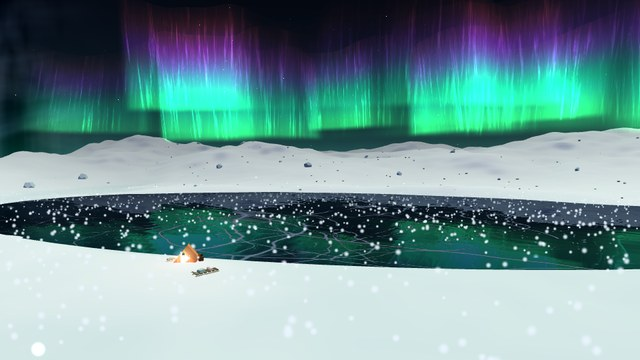
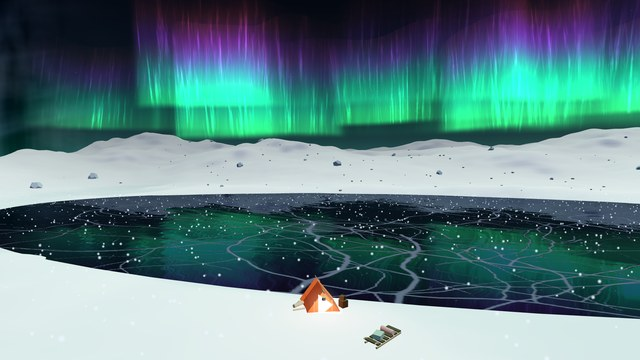
Standalone 3D gallery page, section URLs, gallery opening views
- 3d_gallery/: full-page version of the 3D gallery, linked from the Appendix
- One short URL per section that redirects to it
- 3D gallery: black hole first; bamboo and aurora open on new views, thumbnails match
- Left progress bar hides beside the 3D gallery

Claude-Session: https://claude.ai/code/session_01LLCmu6ixUJSwnJsrLbojYd

diff --git a/index.html b/index.html
@@ -649,9 +649,9 @@ Rating Rules: Rate each painting on a 1&ndash;20 scale for the criterion (1 = po
       </figure>
       <h3 id="3d-gallery">3D Gallery</h3>
       <figure class="g3d" id="fig-3d-gallery">
-        <div class="sv-scene"><iframe data-src="scenes/gallery-bamboo-forest.html?v=3" title="Interactive 3D scene: a misty bamboo forest swaying in the wind, with shafts of light on a stone path." tabindex="-1" scrolling="no"></iframe></div>
-        <div class="g3d-thumbs" role="group" aria-label="Choose a 3D scene"><button type="button" data-scene="scenes/gallery-bamboo-forest.html?v=3" data-title="Misty Bamboo Forest" data-desc="Interactive 3D scene: a misty bamboo forest swaying in the wind, with shafts of light on a stone path." aria-pressed="true"><img src="demos/gallery-bamboo-forest.jpg?v=3" alt="" width="640" height="360" loading="lazy"><span>Misty Bamboo Forest</span></button><button type="button" data-scene="scenes/gallery-black-hole.html?v=4" data-title="Black Hole Lensing" data-desc="Interactive 3D scene: a black hole with an accretion disk, bent by gravitational lensing." aria-pressed="false"><img src="demos/gallery-black-hole.jpg?v=2" alt="" width="640" height="360" loading="lazy"><span>Black Hole Lensing</span></button><button type="button" data-scene="scenes/gallery-city-traffic.html?v=2" data-title="City Traffic at Night" data-desc="Interactive 3D scene: a city at night with traffic moving between lit towers." aria-pressed="false"><img src="demos/gallery-city-traffic.jpg?v=2" alt="" width="640" height="360" loading="lazy"><span>City Traffic at Night</span></button><button type="button" data-scene="scenes/gallery-snow-globe.html?v=2" data-title="Snow Globe on a Windowsill" data-desc="Interactive 3D scene: a snow globe on a windowsill with a miniature winter village inside." aria-pressed="false"><img src="demos/gallery-snow-globe.jpg?v=2" alt="" width="640" height="360" loading="lazy"><span>Snow Globe on a Windowsill</span></button><button type="button" data-scene="scenes/gallery-gothic-cathedral.html?v=3" data-title="Gothic Cathedral" data-desc="Interactive 3D scene: the interior of a gothic cathedral lit through stained glass." aria-pressed="false"><img src="demos/gallery-gothic-cathedral.jpg?v=2" alt="" width="640" height="360" loading="lazy"><span>Gothic Cathedral</span></button><button type="button" data-scene="scenes/gallery-billiards.html?v=3" data-title="Pool Table" data-desc="Interactive 3D scene: a pool table at the break shot." aria-pressed="false"><img src="demos/gallery-billiards.jpg?v=2" alt="" width="640" height="360" loading="lazy"><span>Pool Table</span></button><button type="button" data-scene="scenes/gallery-aurora-tundra.html?v=2" data-title="Aurora over the Tundra" data-desc="Interactive 3D scene: aurora curtains rippling over a snowy tundra at night." aria-pressed="false"><img src="demos/gallery-aurora-tundra.jpg?v=2" alt="" width="640" height="360" loading="lazy"><span>Aurora over the Tundra</span></button><button type="button" data-scene="scenes/gallery-sand-hourglass.html?v=2" data-title="Sand Hourglass" data-desc="Interactive 3D scene: an hourglass with sand falling from the upper bulb to the lower." aria-pressed="false"><img src="demos/gallery-sand-hourglass.jpg?v=2" alt="" width="640" height="360" loading="lazy"><span>Sand Hourglass</span></button></div>
-        <p class="post-cover-caption"><span class="cap-title" id="g3d-title">Misty Bamboo Forest</span><span class="cap-sep" aria-hidden="true">·</span>Generated by Inkling and selected by <a href="https://llm-as-a-verifier.com/">LLM-as-a-Verifier</a>. Pick a scene, then drag to look around</p>
+        <div class="sv-scene"><iframe data-src="scenes/gallery-black-hole.html?v=4" title="Interactive 3D scene: a black hole with an accretion disk, bent by gravitational lensing." tabindex="-1" scrolling="no"></iframe></div>
+        <div class="g3d-thumbs" role="group" aria-label="Choose a 3D scene"><button type="button" data-scene="scenes/gallery-black-hole.html?v=4" data-title="Black Hole Lensing" data-desc="Interactive 3D scene: a black hole with an accretion disk, bent by gravitational lensing." aria-pressed="true"><img src="demos/gallery-black-hole.jpg?v=2" alt="" width="640" height="360" loading="lazy"><span>Black Hole Lensing</span></button><button type="button" data-scene="scenes/gallery-bamboo-forest.html?v=4" data-title="Misty Bamboo Forest" data-desc="Interactive 3D scene: a misty bamboo forest swaying in the wind, with shafts of light on a stone path." aria-pressed="false"><img src="demos/gallery-bamboo-forest.jpg?v=4" alt="" width="640" height="360" loading="lazy"><span>Misty Bamboo Forest</span></button><button type="button" data-scene="scenes/gallery-city-traffic.html?v=2" data-title="City Traffic at Night" data-desc="Interactive 3D scene: a city at night with traffic moving between lit towers." aria-pressed="false"><img src="demos/gallery-city-traffic.jpg?v=2" alt="" width="640" height="360" loading="lazy"><span>City Traffic at Night</span></button><button type="button" data-scene="scenes/gallery-snow-globe.html?v=2" data-title="Snow Globe on a Windowsill" data-desc="Interactive 3D scene: a snow globe on a windowsill with a miniature winter village inside." aria-pressed="false"><img src="demos/gallery-snow-globe.jpg?v=2" alt="" width="640" height="360" loading="lazy"><span>Snow Globe on a Windowsill</span></button><button type="button" data-scene="scenes/gallery-gothic-cathedral.html?v=3" data-title="Gothic Cathedral" data-desc="Interactive 3D scene: the interior of a gothic cathedral lit through stained glass." aria-pressed="false"><img src="demos/gallery-gothic-cathedral.jpg?v=2" alt="" width="640" height="360" loading="lazy"><span>Gothic Cathedral</span></button><button type="button" data-scene="scenes/gallery-billiards.html?v=3" data-title="Pool Table" data-desc="Interactive 3D scene: a pool table at the break shot." aria-pressed="false"><img src="demos/gallery-billiards.jpg?v=2" alt="" width="640" height="360" loading="lazy"><span>Pool Table</span></button><button type="button" data-scene="scenes/gallery-aurora-tundra.html?v=3" data-title="Aurora over the Tundra" data-desc="Interactive 3D scene: aurora curtains rippling over a snowy tundra at night." aria-pressed="false"><img src="demos/gallery-aurora-tundra.jpg?v=3" alt="" width="640" height="360" loading="lazy"><span>Aurora over the Tundra</span></button><button type="button" data-scene="scenes/gallery-sand-hourglass.html?v=2" data-title="Sand Hourglass" data-desc="Interactive 3D scene: an hourglass with sand falling from the upper bulb to the lower." aria-pressed="false"><img src="demos/gallery-sand-hourglass.jpg?v=2" alt="" width="640" height="360" loading="lazy"><span>Sand Hourglass</span></button></div>
+        <p class="post-cover-caption"><span class="cap-title" id="g3d-title">Black Hole Lensing</span><span class="cap-sep" aria-hidden="true">·</span>Generated by Inkling and selected by <a href="https://llm-as-a-verifier.com/">LLM-as-a-Verifier</a>. Pick a scene, then drag to look around, or open the <a href="3d_gallery/">full-page gallery</a></p>
       </figure>
       <h3 id="painting-gallery">Painting Gallery</h3>
       <div class="post-cover tk-cover">
@@ -803,7 +803,7 @@ Rating Rules: Rate each painting on a 1&ndash;20 scale for the criterion (1 = po
 
 <script>
 /* ---------- TOC ---------- */
-(function(){const wide=document.querySelectorAll('.demo-grid,figure.fx-wide,figure.right-wide,.content .tk-cover,.content .sv-appx,.tie-scenes');if(!wide.length||!('IntersectionObserver' in window))return;const on=new Set();const io=new IntersectionObserver(es=>{es.forEach(e=>e.isIntersecting?on.add(e.target):on.delete(e.target));document.body.classList.toggle('toc-hide',on.size>0)},{rootMargin:'-15% 0px -15% 0px'});wide.forEach(f=>io.observe(f))})();
+(function(){const wide=document.querySelectorAll('.demo-grid,figure.fx-wide,figure.right-wide,.content .tk-cover,.content .sv-appx,.tie-scenes,.content .g3d');if(!wide.length||!('IntersectionObserver' in window))return;const on=new Set();const io=new IntersectionObserver(es=>{es.forEach(e=>e.isIntersecting?on.add(e.target):on.delete(e.target));document.body.classList.toggle('toc-hide',on.size>0)},{rootMargin:'-15% 0px -15% 0px'});wide.forEach(f=>io.observe(f))})();
 (function(){const ul=document.querySelector('#toc ul');let cur=null;
 const items=[{id:'introduction',text:'Introduction',tag:'H2'},...[...document.querySelectorAll('#article h2, #article h3')].filter(h=>!h.closest('[hidden]')).map(h=>({id:h.id,text:h.textContent,tag:h.tagName}))];
 items.forEach(h=>{const li=document.createElement('li');li.innerHTML=`<a href="#${h.id}">${h.text}</a>`;

diff --git a/3d_gallery/index.html b/3d_gallery/index.html
@@ -1,0 +1,64 @@
+<!doctype html>
+<html lang="en">
+<head>
+<meta charset="utf-8">
+<meta name="viewport" content="width=device-width,initial-scale=1">
+<title>3D Gallery · Scaling Self-Verification for Creative Tasks</title>
+<meta name="description" content="Eight interactive Three.js scenes generated by Inkling and selected by LLM-as-a-Verifier.">
+<style>
+:root{--bg:#fff;--fg:#282828;--fg3:#666;--fg4:#676767;--rule:#e6e6e3;
+  --font-serif:'Iowan Old Style BT','Iowan Old Style',Charter,'Bitstream Charter','Source Serif 4',Georgia,serif;
+  --font-sans:'GT America',Inter,-apple-system,BlinkMacSystemFont,'Segoe UI',Roboto,'Helvetica Neue',Arial,sans-serif}
+@media (prefers-color-scheme:dark){:root{--bg:#161616;--fg:#ececea;--fg3:#a6a6a1;--fg4:#9a9a96;--rule:#2e2e2c}}
+*{box-sizing:border-box}
+body{margin:0;background:var(--bg);color:var(--fg);font-family:var(--font-sans);-webkit-font-smoothing:antialiased}
+main{max-width:1180px;margin:0 auto;padding:28px 16px 56px}
+.back{font-size:13px;color:var(--fg4);text-decoration:none}
+.back:hover{color:var(--fg)}
+h1{font-family:var(--font-serif);font-weight:600;font-size:30px;line-height:1.3;margin:18px 0 6px;text-wrap:balance}
+.lede{font-family:var(--font-serif);font-size:17px;line-height:1.55;color:var(--fg3);margin:0 0 22px;max-width:680px}
+.lede a{color:inherit}
+.stage{position:relative;aspect-ratio:16/9;background:#05070c;border-radius:6px;overflow:hidden}
+.stage iframe{display:block;width:100%;height:100%;border:0}
+.stage:fullscreen{aspect-ratio:auto;border-radius:0}
+.fs{position:absolute;right:10px;bottom:10px;width:34px;height:34px;border:0;border-radius:8px;background:rgba(18,18,18,.55);color:#fff;display:flex;align-items:center;justify-content:center;cursor:pointer}
+.fs:hover{background:rgba(18,18,18,.8)}
+.now{display:flex;gap:10px;align-items:baseline;flex-wrap:wrap;margin:14px 0 20px;font-size:14px;color:var(--fg4)}
+.now b{font-family:var(--font-serif);font-size:19px;font-weight:600;color:var(--fg)}
+.thumbs{display:grid;grid-template-columns:repeat(4,1fr);gap:16px 12px;align-items:start}
+.thumbs button{display:block;padding:0;border:0;background:none;cursor:pointer;font:inherit;color:var(--fg4);text-align:center}
+.thumbs img{display:block;width:100%;height:auto;aspect-ratio:16/9;object-fit:cover;border-radius:4px;opacity:.62;outline:2px solid transparent;outline-offset:2px;transition:opacity .2s,outline-color .2s}
+.thumbs span{display:block;margin-top:.5rem;font-size:13px;line-height:1.3}
+.thumbs button:hover img,.thumbs button:focus-visible img{opacity:1}
+.thumbs button[aria-pressed="true"] img{opacity:1;outline-color:var(--fg)}
+.thumbs button[aria-pressed="true"]{color:var(--fg)}
+.thumbs button:focus-visible{outline:none}
+@media (max-width:760px){.thumbs{grid-template-columns:repeat(2,1fr)}h1{font-size:25px}}
+@media (prefers-reduced-motion:reduce){.thumbs img{transition:none}}
+</style>
+</head>
+<body>
+<main>
+  <a class="back" href="../">← Scaling Self-Verification for Creative Tasks</a>
+  <h1>3D Gallery</h1>
+  <p class="lede">Interactive Three.js scenes generated by Inkling and selected by <a href="https://llm-as-a-verifier.com/">LLM-as-a-Verifier</a>. Pick a scene, then drag to look around.</p>
+  <div class="stage" id="stage"><iframe id="frame" src="../scenes/gallery-black-hole.html?v=4" title="Interactive 3D scene: a black hole with an accretion disk, bent by gravitational lensing." allow="fullscreen"></iframe><button class="fs" id="fs" type="button" aria-label="Full screen"><svg viewBox="0 0 16 16" width="16" height="16" fill="none" stroke="currentColor" stroke-width="1.6" stroke-linecap="round" stroke-linejoin="round" aria-hidden="true"><path d="M2 6V2h4M10 2h4v4M14 10v4h-4M6 14H2v-4"/></svg></button></div>
+  <p class="now"><b id="title">Black Hole Lensing</b><span id="desc">A black hole with an accretion disk, bent by gravitational lensing.</span></p>
+  <div class="thumbs" role="group" aria-label="Choose a 3D scene"><button type="button" data-scene="../scenes/gallery-black-hole.html?v=4" data-title="Black Hole Lensing" data-desc="Interactive 3D scene: a black hole with an accretion disk, bent by gravitational lensing." aria-pressed="true"><img src="../demos/gallery-black-hole.jpg?v=2" alt="" width="640" height="360" loading="lazy"><span>Black Hole Lensing</span></button><button type="button" data-scene="../scenes/gallery-bamboo-forest.html?v=4" data-title="Misty Bamboo Forest" data-desc="Interactive 3D scene: a misty bamboo forest swaying in the wind, with shafts of light on a stone path." aria-pressed="false"><img src="../demos/gallery-bamboo-forest.jpg?v=4" alt="" width="640" height="360" loading="lazy"><span>Misty Bamboo Forest</span></button><button type="button" data-scene="../scenes/gallery-city-traffic.html?v=2" data-title="City Traffic at Night" data-desc="Interactive 3D scene: a city at night with traffic moving between lit towers." aria-pressed="false"><img src="../demos/gallery-city-traffic.jpg?v=2" alt="" width="640" height="360" loading="lazy"><span>City Traffic at Night</span></button><button type="button" data-scene="../scenes/gallery-snow-globe.html?v=2" data-title="Snow Globe on a Windowsill" data-desc="Interactive 3D scene: a snow globe on a windowsill with a miniature winter village inside." aria-pressed="false"><img src="../demos/gallery-snow-globe.jpg?v=2" alt="" width="640" height="360" loading="lazy"><span>Snow Globe on a Windowsill</span></button><button type="button" data-scene="../scenes/gallery-gothic-cathedral.html?v=3" data-title="Gothic Cathedral" data-desc="Interactive 3D scene: the interior of a gothic cathedral lit through stained glass." aria-pressed="false"><img src="../demos/gallery-gothic-cathedral.jpg?v=2" alt="" width="640" height="360" loading="lazy"><span>Gothic Cathedral</span></button><button type="button" data-scene="../scenes/gallery-billiards.html?v=3" data-title="Pool Table" data-desc="Interactive 3D scene: a pool table at the break shot." aria-pressed="false"><img src="../demos/gallery-billiards.jpg?v=2" alt="" width="640" height="360" loading="lazy"><span>Pool Table</span></button><button type="button" data-scene="../scenes/gallery-aurora-tundra.html?v=3" data-title="Aurora over the Tundra" data-desc="Interactive 3D scene: aurora curtains rippling over a snowy tundra at night." aria-pressed="false"><img src="../demos/gallery-aurora-tundra.jpg?v=3" alt="" width="640" height="360" loading="lazy"><span>Aurora over the Tundra</span></button><button type="button" data-scene="../scenes/gallery-sand-hourglass.html?v=2" data-title="Sand Hourglass" data-desc="Interactive 3D scene: an hourglass with sand falling from the upper bulb to the lower." aria-pressed="false"><img src="../demos/gallery-sand-hourglass.jpg?v=2" alt="" width="640" height="360" loading="lazy"><span>Sand Hourglass</span></button></div>
+</main>
+<script>
+(function(){
+  const frame=document.getElementById('frame'), title=document.getElementById('title'), desc=document.getElementById('desc'), stage=document.getElementById('stage');
+  const btns=[...document.querySelectorAll('.thumbs button')];
+  const pick=(b,push)=>{ btns.forEach(x=>x.setAttribute('aria-pressed',String(x===b)));
+    frame.src=b.dataset.scene; frame.title=b.dataset.desc; title.textContent=b.dataset.title;
+    const d=b.dataset.desc.replace('Interactive 3D scene: ',''); desc.textContent=d.charAt(0).toUpperCase()+d.slice(1);
+    if(push) history.replaceState(null,'','#'+b.dataset.scene.match(/gallery-([a-z-]+)/)[1]) };
+  btns.forEach(b=>b.addEventListener('click',()=>{ pick(b,true); stage.scrollIntoView({block:'nearest',behavior:'smooth'}) }));
+  const want=location.hash.slice(1), hit=want&&btns.find(b=>b.dataset.scene.includes('gallery-'+want+'.'));
+  if(hit&&hit!==btns[0]) pick(hit,false);
+  document.getElementById('fs').addEventListener('click',()=>{ document.fullscreenElement?document.exitFullscreen():stage.requestFullscreen&&stage.requestFullscreen() });
+})();
+</script>
+</body>
+</html>

diff --git a/how-does-llm-as-a-verifier-work/index.html b/how-does-llm-as-a-verifier-work/index.html
@@ -1,0 +1,11 @@
+<!doctype html>
+<html lang="en">
+<head>
+<meta charset="utf-8">
+<title>How does LLM-as-a-Verifier work? · Scaling Self-Verification for Creative Tasks</title>
+<link rel="canonical" href="../#how-does-llm-as-a-verifier-work">
+<meta http-equiv="refresh" content="0; url=../#how-does-llm-as-a-verifier-work">
+<script>location.replace('../#how-does-llm-as-a-verifier-work')</script>
+</head>
+<body><p><a href="../#how-does-llm-as-a-verifier-work">How does LLM-as-a-Verifier work?</a></p></body>
+</html>

diff --git a/how_does_llm_as_a_verifier_work/index.html b/how_does_llm_as_a_verifier_work/index.html
@@ -1,0 +1,11 @@
+<!doctype html>
+<html lang="en">
+<head>
+<meta charset="utf-8">
+<title>How does LLM-as-a-Verifier work? · Scaling Self-Verification for Creative Tasks</title>
+<link rel="canonical" href="../#how-does-llm-as-a-verifier-work">
+<meta http-equiv="refresh" content="0; url=../#how-does-llm-as-a-verifier-work">
+<script>location.replace('../#how-does-llm-as-a-verifier-work')</script>
+</head>
+<body><p><a href="../#how-does-llm-as-a-verifier-work">How does LLM-as-a-Verifier work?</a></p></body>
+</html>

diff --git a/limitations-of-llm-as-a-judge/index.html b/limitations-of-llm-as-a-judge/index.html
@@ -1,0 +1,11 @@
+<!doctype html>
+<html lang="en">
+<head>
+<meta charset="utf-8">
+<title>Limitations of LLM-as-a-Judge · Scaling Self-Verification for Creative Tasks</title>
+<link rel="canonical" href="../#limitations-of-llm-as-a-judge">
+<meta http-equiv="refresh" content="0; url=../#limitations-of-llm-as-a-judge">
+<script>location.replace('../#limitations-of-llm-as-a-judge')</script>
+</head>
+<body><p><a href="../#limitations-of-llm-as-a-judge">Limitations of LLM-as-a-Judge</a></p></body>
+</html>

diff --git a/limitations_of_llm_as_a_judge/index.html b/limitations_of_llm_as_a_judge/index.html
@@ -1,0 +1,11 @@
+<!doctype html>
+<html lang="en">
+<head>
+<meta charset="utf-8">
+<title>Limitations of LLM-as-a-Judge · Scaling Self-Verification for Creative Tasks</title>
+<link rel="canonical" href="../#limitations-of-llm-as-a-judge">
+<meta http-equiv="refresh" content="0; url=../#limitations-of-llm-as-a-judge">
+<script>location.replace('../#limitations-of-llm-as-a-judge')</script>
+</head>
+<body><p><a href="../#limitations-of-llm-as-a-judge">Limitations of LLM-as-a-Judge</a></p></body>
+</html>

diff --git a/test-time-scaling/index.html b/test-time-scaling/index.html
@@ -1,0 +1,11 @@
+<!doctype html>
+<html lang="en">
+<head>
+<meta charset="utf-8">
+<title>Self-Verification at Test Time · Scaling Self-Verification for Creative Tasks</title>
+<link rel="canonical" href="../#test-time-scaling">
+<meta http-equiv="refresh" content="0; url=../#test-time-scaling">
+<script>location.replace('../#test-time-scaling')</script>
+</head>
+<body><p><a href="../#test-time-scaling">Self-Verification at Test Time</a></p></body>
+</html>

diff --git a/test_time_scaling/index.html b/test_time_scaling/index.html
@@ -1,0 +1,11 @@
+<!doctype html>
+<html lang="en">
+<head>
+<meta charset="utf-8">
+<title>Self-Verification at Test Time · Scaling Self-Verification for Creative Tasks</title>
+<link rel="canonical" href="../#test-time-scaling">
+<meta http-equiv="refresh" content="0; url=../#test-time-scaling">
+<script>location.replace('../#test-time-scaling')</script>
+</head>
+<body><p><a href="../#test-time-scaling">Self-Verification at Test Time</a></p></body>
+</html>

diff --git a/rl-training-pipeline/index.html b/rl-training-pipeline/index.html
@@ -1,0 +1,11 @@
+<!doctype html>
+<html lang="en">
+<head>
+<meta charset="utf-8">
+<title>Training Pipeline · Scaling Self-Verification for Creative Tasks</title>
+<link rel="canonical" href="../#rl-training-pipeline">
+<meta http-equiv="refresh" content="0; url=../#rl-training-pipeline">
+<script>location.replace('../#rl-training-pipeline')</script>
+</head>
+<body><p><a href="../#rl-training-pipeline">Training Pipeline</a></p></body>
+</html>

diff --git a/rl_training_pipeline/index.html b/rl_training_pipeline/index.html
@@ -1,0 +1,11 @@
+<!doctype html>
+<html lang="en">
+<head>
+<meta charset="utf-8">
+<title>Training Pipeline · Scaling Self-Verification for Creative Tasks</title>
+<link rel="canonical" href="../#rl-training-pipeline">
+<meta http-equiv="refresh" content="0; url=../#rl-training-pipeline">
+<script>location.replace('../#rl-training-pipeline')</script>
+</head>
+<body><p><a href="../#rl-training-pipeline">Training Pipeline</a></p></body>
+</html>

diff --git a/rl-training/index.html b/rl-training/index.html
@@ -1,0 +1,11 @@
+<!doctype html>
+<html lang="en">
+<head>
+<meta charset="utf-8">
+<title>Self-Verification for RL Training · Scaling Self-Verification for Creative Tasks</title>
+<link rel="canonical" href="../#rl-training">
+<meta http-equiv="refresh" content="0; url=../#rl-training">
+<script>location.replace('../#rl-training')</script>
+</head>
+<body><p><a href="../#rl-training">Self-Verification for RL Training</a></p></body>
+</html>

diff --git a/rl_training/index.html b/rl_training/index.html
@@ -1,0 +1,11 @@
+<!doctype html>
+<html lang="en">
+<head>
+<meta charset="utf-8">
+<title>Self-Verification for RL Training · Scaling Self-Verification for Creative Tasks</title>
+<link rel="canonical" href="../#rl-training">
+<meta http-equiv="refresh" content="0; url=../#rl-training">
+<script>location.replace('../#rl-training')</script>
+</head>
+<body><p><a href="../#rl-training">Self-Verification for RL Training</a></p></body>
+</html>
